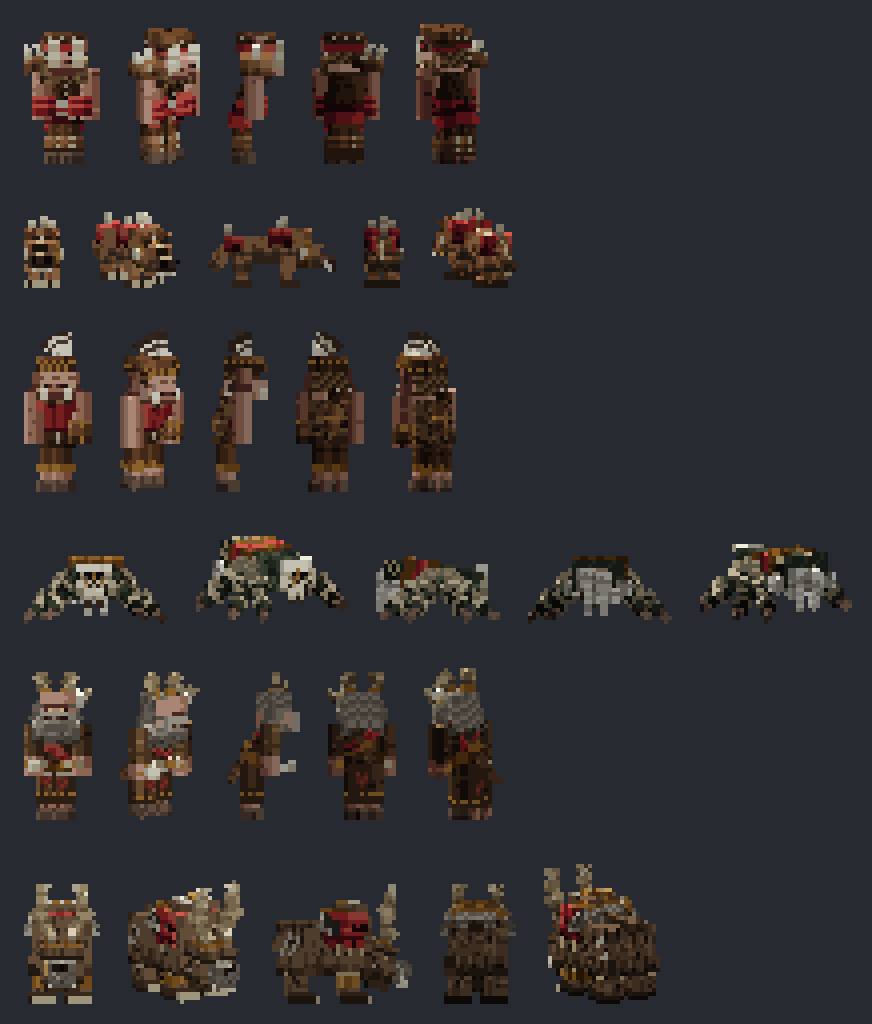
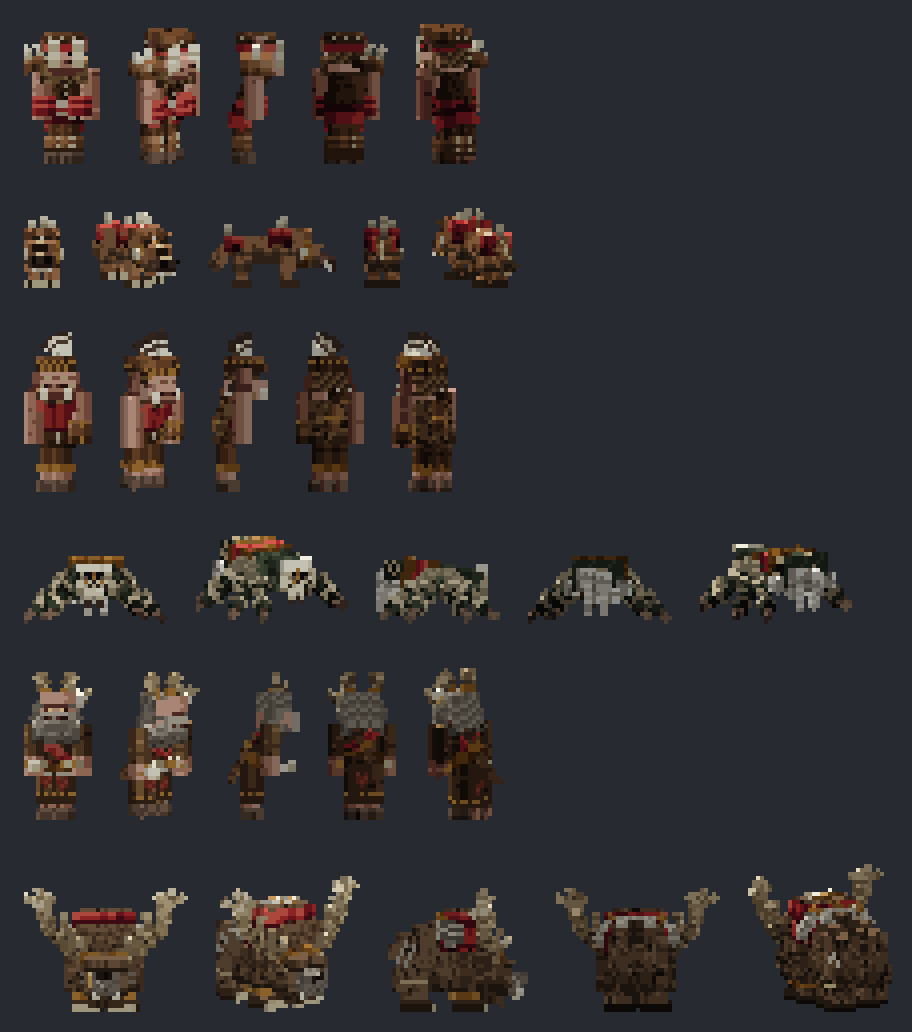
Polish Old Horn: a 30 px branching rack, a higher hump and a neck ruff
The antlers become heavy 2 x 2 beams that sweep out and climb, with brow, bez,
two rising tines, a back and an inner tine and a three-point crown. The bear
gains a higher hump under the team mantle, a neck ruff, shoulder and jowl shag,
a stepped back ridge, deeper fringe and thicker legs. Quill side faces no longer
read as a dark slab. Still 1 texel per px, no back flag.

build_skins --verify, art_hue_check (Wildmoot PASS 99%) and verify.py fast
--offline pass. Turn sheet and before/after regenerated in work/.

diff --git a/art/hand/wm_oldhorn/build_wm_oldhorn.py b/art/hand/wm_oldhorn/build_wm_oldhorn.py
@@ -2,8 +2,8 @@
 """Old Horn, the Antlered Alpha (Wildmoot house, troop id wm_oldhorn; Legendary; a polar bear entity on the hound rig with
 its own bear boxes), hand-authored at one texel per model pixel.
 
-A huge, low bear with a humped back under a wide antler rack, the widest silhouette in the House: a shaggy bark-brown
-coat, a grey scarred muzzle, clay warpaint slashed across the shoulders and brow, clay-glow eyes. A bone-and-feather
+A huge, low bear with a high shoulder hump, a heavy neck ruff and thick forelegs, under a branching antler rack some
+30 px across, the widest silhouette in the House: a shaggy bark-brown coat, a grey scarred muzzle, clay warpaint slashed across the shoulders and brow, clay-glow eyes. A bone-and-feather
 mantle sits over the shoulder hump, plaques and quills bound with ochre sinew, and a hide mantle in the team colour is
 draped under it over the hump and shoulders (clothing, not a flag; the spec's war-banner between the tines is an open
 question for Kort and is NOT built). Tier I only. No back flag.
@@ -131,6 +131,16 @@ def jaw_painter():
         return g
     return paint
 
+def cheek(seed):
+    """A jowl ruff: shag combed down and back, a grey fleck of age on the front face."""
+    base = shag("oc" + seed, under=1, wear=2, lift=0)
+    def paint(face, w, h):
+        g = base(face, w, h)
+        if face == "front":
+            for y in range(1, h - 1, 2): g[y][w // 2] = GREYFUR[3]
+        return g
+    return paint
+
 def ear_painter():
     def paint(face, w, h):
         g = flat(BARK, 3, "oe", 1)(face, w, h)
@@ -219,13 +229,13 @@ def feather():
         g = blank(w, h)
         for y in range(h):
             for x in range(w):
-                v = 3 - (1 if y >= h - 2 else 0) + (LIT[face] if face not in ("top", "bottom") else 0)
+                v = 3 - (1 if y >= h - 2 else 0) + (max(0, LIT[face]) if face not in ("top", "bottom") else 0)   # pale vanes on every side
                 g[y][x] = clamp(FEATHER, v + (1 if (x + y) % 3 == 0 else 0))
         if face in ("front", "back", "left", "right"):
             g[0] = [OCHRE[3] if (x + 0) % 2 == 0 else OCHRE[1] for x in range(w)]       # bound with ochre sinew
             if h > 3: g[1] = [OCHRE[2] for x in range(w)]
             if w >= 2 and face in ("left", "right"):
-                for y in range(2, h): g[y][w // 2] = FEATHER[0]
+                for y in range(2, h, 2): g[y][w // 2] = FEATHER[1]                     # a broken shaft line, not a dark slab
         return g
     return paint
 
@@ -252,18 +262,27 @@ def hide_mantle(T, M, seed="wm-oh-mantle"):
 
 # ---- assembling ----
 def antler_chain(side):
-    """One antler of the rack, c = +1 on the wearer's left. Head-local coordinates, tips lashed in ochre."""
+    """One antler of the rack, c = +1 on the wearer's left. Head-local coordinates, rotations relative to the parent tine.
+
+    A heavy 2 x 2 beam leaves the burr low and wide, sweeps out and back, then climbs; brow and bez tines stab forward
+    over the brow, two long tines rise off the outer beam, and the crown forks into three. About 30 px across, the beams
+    rising some 18 px over the head: the widest silhouette in the House."""
     c = 1 if side == "left" else -1
     n = f"antler_{side}"
-    B = [Bone(n + "_a", "head", (c * 2.5, -3.5, -3.5), [Box((-1, -5, -1), (2, 5, 2), antler_paint(n + "a", 2))], rot=(0, 0, c * 8)),
-         Bone(n + "_b", n + "_a", (0, -5, 0), [Box((-1, -5, -1), (2, 5, 2), antler_paint(n + "b", 3))], rot=(0, 0, c * 14)),
-         Bone(n + "_c", n + "_b", (0, -5, 0), [Box((-1, -4, -1), (2, 4, 2), antler_paint(n + "c", 3))], rot=(0, 0, -c * 26)),
-         Bone(n + "_brow", n + "_a", (0, -2, 0), [Box((-0.5, -4, -0.5), (1, 4, 1), antler_paint(n + "br", 3))], rot=(46, 0, c * -6)),
-         Bone(n + "_mid", n + "_b", (0, -2.5, 0), [Box((-0.5, -4, -0.5), (1, 4, 1), antler_paint(n + "m", 3))], rot=(0, 0, c * 36)),
-         Bone(n + "_back", n + "_b", (0, -3.5, 0), [Box((-0.5, -3, -0.5), (1, 3, 1), antler_paint(n + "bk", 3))], rot=(-44, 0, c * -6)),
-         Bone(n + "_tip1", n + "_c", (0, -4, 0), [Box((-0.5, -3, -0.5), (1, 3, 1), antler_paint(n + "t1", 4))], rot=(0, 0, c * 24)),
-         Bone(n + "_tip2", n + "_c", (0, -4, 0), [Box((-0.5, -3, -0.5), (1, 3, 1), antler_paint(n + "t2", 4))], rot=(0, 0, -c * 22))]
-    return B
+    A = lambda nm, par, piv, size, base, rot: Bone(n + nm, par, piv, [Box((-size[0] / 2, -size[1], -size[2] / 2), size, antler_paint(n + nm, base))], rot=rot)
+    return [
+        A("_a", "head", (c * 3.5, -3.5, -2.5), (2, 6, 2), 2, (-14, 0, c * 68)),        # the beam leaves the burr wide and low
+        A("_b", n + "_a", (0, -6, 0), (2, 7, 2), 2, (-6, 0, -c * 20)),                  # sweeps out and back
+        A("_c", n + "_b", (0, -7, 0), (2, 6, 2), 3, (4, 0, -c * 28)),                   # then climbs
+        A("_d", n + "_c", (0, -6, 0), (1, 5, 1), 4, (0, 0, -c * 6)),                    # the crown's middle tip
+        A("_brow", n + "_a", (0, -1.5, 0), (1, 6, 1), 3, (34, 0, -c * 62)),             # brow tine, forward over the eyes
+        A("_bez", n + "_a", (0, -5, 0), (1, 6, 1), 3, (22, 0, -c * 66)),                # bez tine, forward and up
+        A("_trez", n + "_b", (0, -2.5, 0), (1, 7, 1), 3, (6, 0, -c * 50)),              # a long tine rising off the outer beam
+        A("_royal", n + "_b", (0, -5.5, 0), (1, 6, 1), 3, (12, 0, -c * 34)),            # a second, shorter
+        A("_back", n + "_c", (0, -2, 0), (1, 4, 1), 3, (-42, 0, c * 10)),               # a back tine off the climb
+        A("_inner", n + "_c", (0, -4, 0), (1, 5, 1), 4, (8, 0, -c * 44)),              # an inner tine toward the other side
+        A("_crown1", n + "_c", (0, -6, 0), (1, 5, 1), 4, (0, 0, c * 40)),               # the crown forks outward
+        A("_crown2", n + "_c", (0, -6, 0), (1, 4, 1), 4, (-12, 0, -c * 42))]            # and inward
 
 def bones():
     B = [Bone("root", "")]
@@ -273,41 +292,49 @@ def bones():
     B.append(Bone("muzzle", "head", boxes=[Box((-3, -1, -11), (6, 4, 4), muzzle_painter())]))
     B.append(Bone("jaw", "head", (0, 3, -7), [Box((-2, 0, -4), (4, 1, 4), jaw_painter())]))
     B.append(Bone("fangs", "head", boxes=[Box((-3, 3, -10.5), (1, 2, 1), fang()), Box((2, 3, -10.5), (1, 2, 1), fang())]))
-    B.append(Bone("beard", "head", boxes=[Box((-4, 4, -6), (8, 2, 5), beard(), dil=0.1)]))
-    B.append(Bone("ear_right", "head", (-4.5, -3.5, -1), [Box((-1, -2, -0.5), (2, 2, 1), ear_painter())], rot=(0, 0, -12)))
-    B.append(Bone("ear_left", "head", (4.5, -3.5, -1), [Box((-1, -2, -0.5), (2, 2, 1), ear_painter())], rot=(0, 0, 12)))
-    B.append(Bone("burrs", "head", boxes=[Box((1, -5, -5), (3, 2, 3), burr(), dil=0.2), Box((-4, -5, -5), (3, 2, 3), burr(), dil=0.2)]))
+    B.append(Bone("beard", "head", boxes=[Box((-4, 4, -6), (8, 3, 5), beard(), dil=0.1)]))
+    # cheek ruffs widen the head past the brow: the bear's jowls and mane
+    B.append(Bone("cheeks", "head", boxes=[Box((-7, -2, -5), (2, 6, 5), cheek("ckr"), dil=0.1), Box((5, -2, -5), (2, 6, 5), cheek("ckl"), dil=0.1)]))
+    B.append(Bone("ear_right", "head", (-5, -3.5, -1), [Box((-1, -2, -0.5), (2, 2, 1), ear_painter())], rot=(0, 0, -20)))
+    B.append(Bone("ear_left", "head", (5, -3.5, -1), [Box((-1, -2, -0.5), (2, 2, 1), ear_painter())], rot=(0, 0, 20)))
+    B.append(Bone("burrs", "head", boxes=[Box((2, -5, -4), (3, 2, 3), burr(), dil=0.2), Box((-5, -5, -4), (3, 2, 3), burr(), dil=0.2)]))
     for side in ("right", "left"):
         B.extend(antler_chain(side))
-    B.append(Bone("fringe", "chest", boxes=[Box((-7, 3, -10), (14, 3, 10), pelt(R=BARK, seed="oh-fr"), dil=0.4)]))
-    B.append(Bone("fringe_body", "body", boxes=[Box((-7, 3, -12), (14, 3, 12), pelt(R=BARK, seed="oh-fb"), dil=0.4)]))
+    # the mane: a heavy ruff round the neck, wider than the shoulders, and shag hanging off the shoulders
+    B.append(Bone("ruff", "chest", boxes=[Box((-8, -7, -11.5), (16, 12, 3), pelt(R=BARK, seed="oh-ruff"), dil=0.3)]))
+    B.append(Bone("shoulder_fur", "chest", boxes=[
+        Box((-9, -1, -9), (2, 8, 7), pelt(R=BARK, seed="oh-shr"), dil=0.2), Box((7, -1, -9), (2, 8, 7), pelt(R=BARK, seed="oh-shl"), dil=0.2)]))
+    B.append(Bone("fringe", "chest", boxes=[Box((-7, 3, -10), (14, 4, 10), pelt(R=BARK, seed="oh-fr"), dil=0.4)]))
+    B.append(Bone("fringe_body", "body", boxes=[Box((-7, 3, -12), (14, 4, 12), pelt(R=BARK, seed="oh-fb"), dil=0.4)]))
+    # the back steps down from the hump to a lower rump: a ridge of shag, then the tufts along the spine
+    B.append(Bone("ridge", "body", boxes=[Box((-6, -7, -12), (12, 2, 7), shag("oridge", under=0, wear=2))]))
     B.append(Bone("spine_tufts", "body", boxes=[
-        Box((-1.5, -7, -10), (3, 2, 3), tuft()), Box((-1.5, -6.5, -6), (3, 2, 3), tuft()), Box((-1.5, -6.5, -2), (3, 2, 3), tuft())]))
+        Box((-1.5, -9, -11), (3, 2, 3), tuft()), Box((-1.5, -8, -7), (3, 2, 3), tuft()), Box((-1.5, -6.5, -3), (3, 2, 3), tuft())]))
     B.append(Bone("tail", "body", (0, -3, 0), [Box((-1.5, 0, 0), (3, 3, 2), tailp())]))
     for side, c in (("right", -1), ("left", 1)):
         B.append(Bone(f"front_{side}_leg", "chest", (c * 4.5, 3, -5), [
-            Box((-2.5, 0, -2.5), (5, 8, 5), leg_painter("fl" + side)), Box((-3, 8, -4), (6, 2, 6), paw())]))
-        B.append(Bone(f"{side}_wrist", f"front_{side}_leg", boxes=[Box((-2.5, 5, -2.5), (5, 1, 5), wrist(), dil=0.3)]))
-        B.append(Bone(f"{side}_claws", f"front_{side}_leg", boxes=[Box((-2.5, 9, -5), (5, 1, 1), claws())]))
+            Box((-3, 0, -3), (6, 8, 6), leg_painter("fl" + side)), Box((-3.5, 8, -4.5), (7, 2, 7), paw())]))
+        B.append(Bone(f"{side}_wrist", f"front_{side}_leg", boxes=[Box((-3, 5, -3), (6, 1, 6), wrist(), dil=0.3)]))
+        B.append(Bone(f"{side}_claws", f"front_{side}_leg", boxes=[Box((-3, 9, -5.5), (6, 1, 1), claws())]))
         B.append(Bone(f"back_{side}_leg", "root", (c * 4.5, 14, 8), [
-            Box((-2.5, 0, -2.5), (5, 8, 5), leg_painter("bl" + side)), Box((-3, 8, -4), (6, 2, 6), paw())]))
-        B.append(Bone(f"back_{side}_claws", f"back_{side}_leg", boxes=[Box((-2.5, 9, -5), (5, 1, 1), claws())]))
-    # the hide mantle: team colour, draped over the hump and the shoulders under the bone-and-feather mantle
-    B.append(Bone("hump", "chest", boxes=[Box((-5, -10.5, -9), (10, 3, 8), shag("ohump", under=0, wear=2))]))
+            Box((-3, 0, -3), (6, 8, 6), leg_painter("bl" + side)), Box((-3.5, 8, -4.5), (7, 2, 7), paw())]))
+        B.append(Bone(f"back_{side}_claws", f"back_{side}_leg", boxes=[Box((-3, 9, -5.5), (6, 1, 1), claws())]))
+    # the hump rises well over the shoulders; the team hide mantle drapes over it, the bone-and-feather mantle on top
+    B.append(Bone("hump", "chest", boxes=[Box((-6, -12, -9.5), (12, 4, 9), shag("ohump", under=0, wear=2))]))
     B.append(Bone("mantle", "chest", team=True, boxes=[
-        Box((-7, -8, -9), (14, 3, 8), "top", dil=0.3, sheet="cloth"),
-        Box((4, -5, -8), (3, 4, 8), "drape", dil=0.2, sheet="cloth"),
-        Box((-7, -5, -8), (3, 4, 8), "drape", dil=0.2, sheet="cloth")]))
-    # the bone-and-feather mantle: plaques lashed in ochre across the hump, quills hanging over the shoulders
+        Box((-7, -11, -9.5), (14, 4, 9), "top", dil=0.3, sheet="cloth"),
+        Box((4, -7, -8), (3, 5, 8), "drape", dil=0.2, sheet="cloth"),
+        Box((-7, -7, -8), (3, 5, 8), "drape", dil=0.2, sheet="cloth")]))
+    Y = -12.9
     B.append(Bone("plaques", "chest", boxes=[
-        Box((-4, -11.4, -7.5), (2, 1, 4), plaque()), Box((-1, -11.4, -7.5), (2, 1, 4), plaque()), Box((2, -11.4, -7.5), (2, 1, 4), plaque()),
-        Box((-2, -11.4, -7.5), (1, 1, 4), lash(), dil=0.05), Box((1, -11.4, -7.5), (1, 1, 4), lash(), dil=0.05),
-        Box((-4, -11.4, -4), (8, 1, 1), lash(), dil=0.05)]))
+        Box((-4, Y, -7.5), (2, 1, 4), plaque()), Box((-1, Y, -7.5), (2, 1, 4), plaque()), Box((2, Y, -7.5), (2, 1, 4), plaque()),
+        Box((-2, Y, -7.5), (1, 1, 4), lash(), dil=0.05), Box((1, Y, -7.5), (1, 1, 4), lash(), dil=0.05),
+        Box((-4, Y, -4), (8, 1, 1), lash(), dil=0.05)]))
     for side, c in (("right", -1), ("left", 1)):
-        for i, (zq, ang, ln) in enumerate(((-6, 14, 6), (-4, 26, 7), (-2, 38, 6))):
-            B.append(Bone(f"quill_{side}_{i}", "chest", (c * 5.3, -9.8, zq + 2.5), [Box((-0.5, 0, -1), (1, ln, 2), feather())], rot=(0, 0, -c * ang)))
+        for i, (zq, ang, ln) in enumerate(((-6, 14, 7), (-4, 26, 8), (-2, 38, 7))):
+            B.append(Bone(f"quill_{side}_{i}", "chest", (c * 6, -11, zq + 2.5), [Box((-0.5, 0, -1), (1, ln, 2), feather())], rot=(0, 0, -c * ang)))
     for i, x in enumerate((-3.5, -1.2, 1.2, 3.5)):
-        B.append(Bone(f"quill_back_{i}", "chest", (x, -10, -1.5), [Box((-1, 0, -0.5), (2, 6, 1), feather())], rot=(28 + 6 * (i % 2), 0, 0)))
+        B.append(Bone(f"quill_back_{i}", "chest", (x, -11.5, -1), [Box((-1, 0, -0.5), (2, 7, 1), feather())], rot=(28 + 6 * (i % 2), 0, 0)))
     return B
 
 def cloth_painter(spec, side):
@@ -328,7 +355,7 @@ def glow(bone, box):
     return paint
 
 NOTE = ("Old Horn, the Antlered Alpha (unit identity, Wildmoot; Legendary; polar bear entity on the hound rig, own bear boxes): a huge low "
-        "bear with a hump under a 16 px antler rack of branching tines, a shaggy bark coat, a grey scarred muzzle, clay warpaint and clay-glow "
+        "bear with a high hump and neck ruff under a 30 px antler rack of branching tines, a shaggy bark coat, a grey scarred muzzle, clay warpaint and clay-glow "
         "eyes, a bone-and-feather mantle bound in ochre over the shoulder hump on a team-colour hide mantle. No war-banner (an open question "
         "for Kort). Tier I only. No back flag.")
 WM_OLDHORN = Troop("wm_oldhorn", SKIN, CLOTH, bones, cloth_painter,
